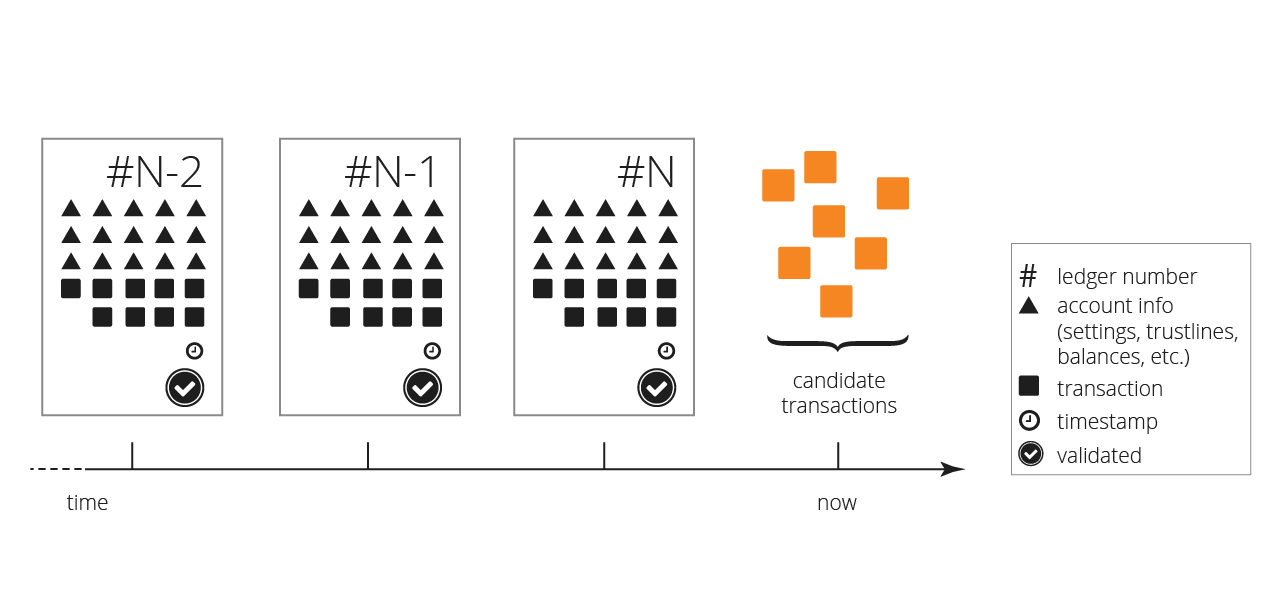
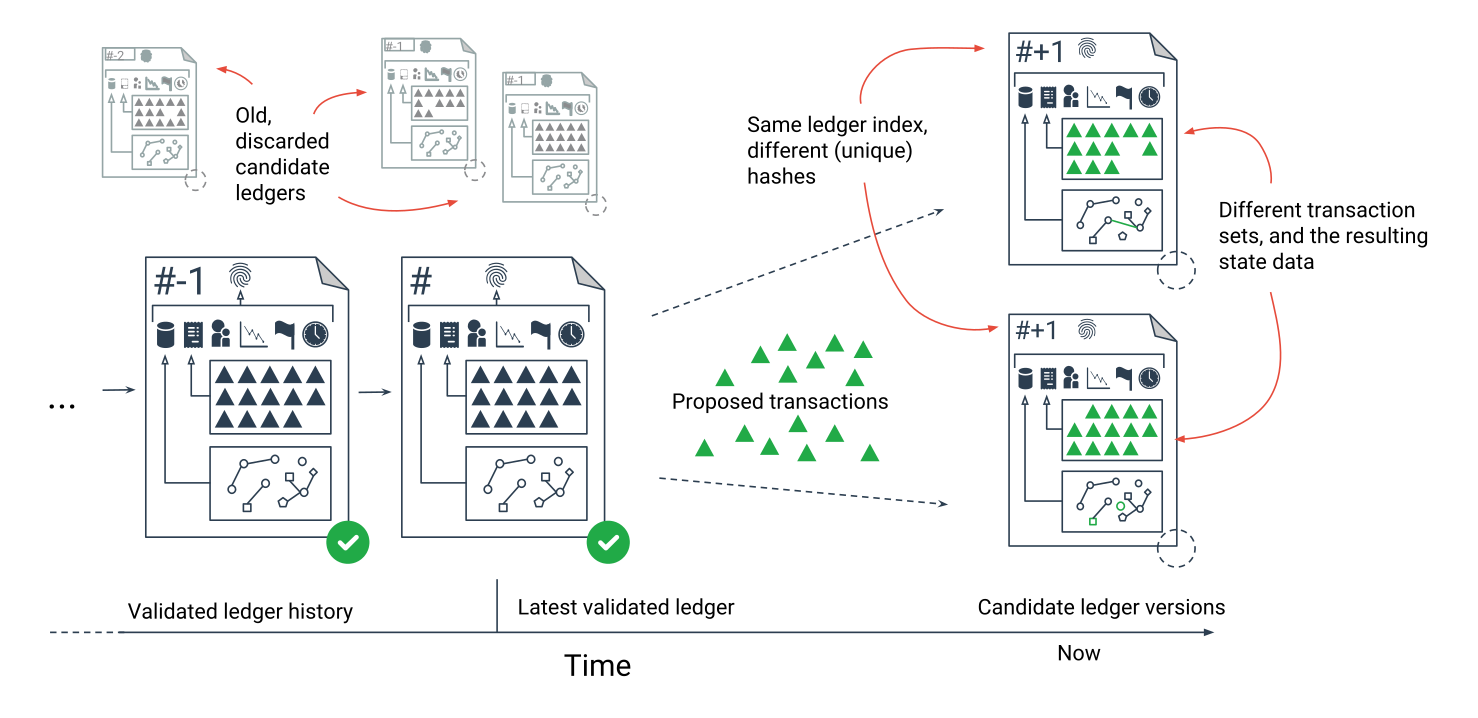
Start revising consensus article diagrams

diff --git a/content/concepts/consensus-network/consensus.md b/content/concepts/consensus-network/consensus.md
@@ -6,35 +6,34 @@ This article provides a high level overview of the XRP Ledger, the information i
 
 When building applications on the XRP Ledger, it is important to understand this process, so as not to be surprised by the behavior of XRP Ledger APIs and their effects.
 
-**Caution:** Transactions are not applied to the XRP Ledger instantaneously; it takes some time for the effects of transactions to be applied. During this process, [`rippled` APIs](rippled-api.html) may return provisional results that should not be mistaken for the final, immutable results of a transaction. Immutable results can only be determined by looking at validated ledgers.
 
 ## Introduction
 
 The peer-to-peer XRP Ledger network provides a worldwide, shared ledger, which gives applications authoritative information about the state of its contents. This state information includes:
 
 - settings for each [account](accounts.html)
-- balances between accounts (trust lines)
+- balances of XRP and [issued currencies](issued-currencies.html)
 - offers in the distributed exchange
 - network settings, such as [transaction costs](transaction-cost.html) and [reserve](reserves.html) amounts
 - a time stamp
 
 For a full, technical description of which data is included in a ledger version, see the [Ledger Format Reference](ledger-data-formats.html).
 
-[![Figure 1: XRP Ledger Elements](img/ledger-components.png)](img/ledger-components.png)
+[![Figure 1: XRP Ledger Elements](img/anatomy-of-a-ledger-complete.png)](img/anatomy-of-a-ledger-complete.png)
 
 _Figure 1: XRP Ledger Elements_
 
-The XRP Ledger has a new ledger version every several seconds. The ledger versions that preceded it form the ledger history. Even the most recent validated ledger is part of history, as it represents the state of the network as of a short time ago. In the present, the network is evaluating transactions which may be applied and finalized in the next ledger version.
+The XRP Ledger has a new ledger version every several seconds. When the network agrees on the contents of a ledger version, that ledger version is _validated_, and its contents can never change. The validated ledger versions that preceded it form the ledger history. Even the most recent validated ledger is part of history, as it represents the state of the network as of a short time ago. In the present, the network is evaluating transactions which may be applied and finalized in the next ledger version. While this evaluation is happening, the network has candidate ledger versions that are not yet validated.
 
 [![Figure 2: XRP Ledger Sequence and History](img/ledger-history.png)](img/ledger-history.png)
 
 _Figure 2: XRP Ledger Sequence and History_
 
-A ledger instance is identified by its _sequence number_ <a href="#footnote_1" id="footnote_from_1"><sup>1</sup></a>, also called a _ledger index_. Ledgers are numbered incrementally. If the last validated ledger is N, the previous was N-1 and the next is N+1. The N+1 ledger is produced by applying a set of transactions to ledger N.
+A ledger instance is identified by its _ledger index_, <a href="#footnote_1" id="footnote_from_1"><sup>1</sup></a>, also called a _sequence number_. Ledgers are numbered incrementally. If the current ledger is N, the previous was N-1 and the next is N+1. The N+1 ledger is produced by applying a set of transactions to ledger N. For any ledger index, there may be several candidate versions with slightly different contents, but only one version can become validated; the others are discarded.
 
-User level changes to the ledger are the results of transactions. Examples of [transactions](transaction-formats.html) include payments, changes to account settings or trust lines, and offers to trade. Each transaction authorizes changes to the ledger and is cryptographically signed by an account owner. Transactions are the only way to authorize changes to an account.
+User level changes to the ledger are the results of transactions. Examples of [transactions](transaction-formats.html) include payments, changes to account settings or trust lines, and offers to trade. Each transaction authorizes changes to the ledger and is cryptographically signed by an account owner. Transactions are the only way to authorize changes to an account, or to change anything else in the ledger.
 
-A ledger instance also contains a set of transactions and metadata about those transactions. The transactions are those that have been applied to the prior ledger to create the new instance. The metadata records precisely the effects of the transaction on the ledger.
+Each ledger version also contains a set of transactions and metadata about those transactions. The transactions it includes are only the ones that have been applied to the previous ledger version to create the new ledger version. The metadata records the exact effects of the transaction on the ledger's state data.
 
 [![Figure 3: Transactions Applied to Ledger Version](img/ledger-changes.png)](img/ledger-changes.png)
 
@@ -54,31 +53,31 @@ Important: Some [`rippled` APIs](rippled-api.html) provide provisional results, 
 
 ## The XRP Ledger Protocol – Consensus and Validation
 
-The peer-to-peer XRP Ledger network consists of many distributed servers, called nodes, that accept and process transactions. Client applications sign and send transactions to nodes, which relay these candidate transactions throughout the network for processing. Examples of client applications include mobile and web wallets, gateways to financial institutions, and electronic trading platforms.
+The peer-to-peer XRP Ledger network consists of many independent XRP Ledger servers (typically running [`rippled`](the-rippled-server.html)) that accept and process transactions. Client applications sign and send transactions to XRP Ledger servers, which relay these candidate transactions throughout the network for processing. Examples of client applications include mobile and web wallets, gateways to financial institutions, and electronic trading platforms.
 
 [![Figure 4: Participants in the XRP Ledger Protocol](img/xrp-ledger-network.png)](img/xrp-ledger-network.png)
 
 _Figure 4: Participants in the XRP Ledger Protocol_
 
-The nodes that receive, relay and process transactions may be either tracking nodes or validating nodes. Tracking nodes’ primary functions include distributing transactions from clients and responding to queries about the ledger. Validating nodes perform the same functions as tracking nodes and additionally contribute to advancing the ledger sequence <a href="#footnote_4" id="footnote_from_4"><sup>4</sup></a>.
+The servers that receive, relay and process transactions may be either tracking servers or validators. Tracking servers’ primary functions include distributing transactions from clients and responding to queries about the ledger. Validating servers perform the same functions as tracking servers and additionally contribute to advancing the ledger sequence <a href="#footnote_4" id="footnote_from_4"><sup>4</sup></a>.
 
-While accepting transactions submitted by client applications, each tracking node uses the last validated ledger as a starting point. The accepted transactions are candidates. The nodes relay their candidate transactions to their peers, allowing the candidate transactions to propagate throughout the network. Ideally, each candidate transaction would be known to all nodes, allowing each to consider the same set of transactions to apply to the last validated ledger. As transactions take time to propagate however, the nodes do not work with the same set of candidate transactions at all times. To account for this, the XRP Ledger uses a process called consensus to ensure that the same transactions are processed and validated ledgers are consistent across the peer-to-peer XRP Ledger network.
+While accepting transactions submitted by client applications, each tracking server uses the last validated ledger as a starting point. The accepted transactions are candidates. The servers relay their candidate transactions to their peers, allowing the candidate transactions to propagate throughout the network. Ideally, each candidate transaction would be known to all servers, allowing each to consider the same set of transactions to apply to the last validated ledger. As transactions take time to propagate however, the servers do not work with the same set of candidate transactions at all times. To account for this, the XRP Ledger uses a process called consensus to ensure that the same transactions are processed and validated ledgers are consistent across the peer-to-peer XRP Ledger network.
 
 ### Consensus
 
-The nodes on the network share information about candidate transactions. Through the consensus process, validating nodes agree on a specific subset of the candidate transactions to be considered for the next ledger. Consensus is an iterative process in which nodes relay proposals, or sets of candidate transactions. Nodes communicate and update proposals until a supermajority <a href="#footnote_5" id="footnote_from_5"><sup>5</sup></a> of peers agree on the same set of candidate transactions.
+The servers on the network share information about candidate transactions. Through the consensus process, validators agree on a specific subset of the candidate transactions to be considered for the next ledger. Consensus is an iterative process in which servers relay proposals, or sets of candidate transactions. Servers communicate and update proposals until a supermajority <a href="#footnote_5" id="footnote_from_5"><sup>5</sup></a> of peers agree on the same set of candidate transactions.
 
-During consensus, each node evaluates proposals from a specific set of peers, called chosen validators <a href="#footnote_6" id="footnote_from_6"><sup>6</sup></a>. Chosen validators represent a subset of the network which, when taken collectively, is "trusted" not to collude in an attempt to defraud the node evaluating the proposals. This definition of "trust" does not require that each individual chosen validator is trusted. Rather, validators are chosen based on the expectation they will not collude in a coordinated effort to falsify data relayed to the network <a href="#footnote_7" id="footnote_from_7"><sup>7</sup></a>. <!-- STYLE_OVERRIDE: will -->
+During consensus, each server evaluates proposals from a specific set of peers, called chosen validators <a href="#footnote_6" id="footnote_from_6"><sup>6</sup></a>. Chosen validators represent a subset of the network which, when taken collectively, is "trusted" not to collude in an attempt to defraud the server evaluating the proposals. This definition of "trust" does not require that each individual chosen validator is trusted. Rather, validators are chosen based on the expectation they will not collude in a coordinated effort to falsify data relayed to the network <a href="#footnote_7" id="footnote_from_7"><sup>7</sup></a>. <!-- STYLE_OVERRIDE: will -->
 
 [![Figure 5: Validators Propose Transaction Sets](img/consensus-candidate-transaction-sets.png)](img/consensus-candidate-transaction-sets.png)
 
-_Figure 5: Validators Propose Transaction Sets — At the start of consensus, nodes work with different sets of transactions. Rounds of proposals determine which transactions to apply to the ledger, and which must wait for a later round of consensus._
+_Figure 5: Validators Propose Transaction Sets — At the start of consensus, servers work with different sets of transactions. Rounds of proposals determine which transactions to apply to the ledger, and which must wait for a later round of consensus._
 
 Candidate transactions which fail to be included in the agreed-upon proposal remain candidate transactions. They may be considered again in the next round of consensus.
 
-[![Figure 6: Through Consensus, Nodes Agree on Transaction Set](img/consensus-agreed-transaction-set.png)](img/consensus-agreed-transaction-set.png)
+[![Figure 6: Through Consensus, Servers Agree on Transaction Set](img/consensus-agreed-transaction-set.png)](img/consensus-agreed-transaction-set.png)
 
-_Figure 6: Through Consensus, Nodes Agree On Transaction Set — Nodes apply the agreed-upon set of transactions (shown in green) to the last validated ledger. Transactions not in the set (in red) may be agreed upon in the next round._
+_Figure 6: Through Consensus, Servers Agree On Transaction Set — Servers apply the agreed-upon set of transactions (shown in green) to the last validated ledger. Transactions not in the set (in red) may be agreed upon in the next round._
 
 Typically, a transaction which does not pass one round of consensus succeeds in the following round. However, in some circumstances, a transaction could fail to pass consensus indefinitely. One such circumstance is if the network increases the base fee to a value higher than the transaction provides. The transaction could potentially succeed if the fees are lowered at some point in the future.
 
@@ -86,29 +85,29 @@ The [`LastLedgerSequence` transaction field](transaction-common-fields.html) is 
 
 ### Validation
 
-When a round of consensus completes, each node computes a new ledger by applying the candidate transactions in the consensus transaction set to the last validated ledger.
+When a round of consensus completes, each server computes a new ledger by applying the candidate transactions in the consensus transaction set to the last validated ledger.
 
 [![Figure 7: A Network Node Calculates a Ledger Validation](img/consensus-calculate-validation.png)](img/consensus-calculate-validation.png)
 
-_Figure 7: A Network Node Calculates a Ledger Validation — Each tracking node applies agreed-upon transactions to the last validated ledger. Validating nodes send their results to the entire network._
+_Figure 7: A Network Node Calculates a Ledger Validation — Each tracking server applies agreed-upon transactions to the last validated ledger. Validating servers send their results to the entire network._
 
-The validating nodes calculate a new version of the ledger and relay their results to the network, each sending a signed hash of the ledger it calculated based on the candidate transactions proposed during consensus. These signed hashes, called validations, allow each node to compare the ledger it computed with those of its peers.
+The validators calculate a new version of the ledger and relay their results to the network, each sending a signed hash of the ledger it calculated based on the candidate transactions proposed during consensus. These signed hashes, called validations, allow each server to compare the ledger it computed with those of its peers.
 
 [![Figure 8: Ledger is Validated When Supermajority of Peers Calculate the Same Result Result](img/consensus-declare-validation.png)](img/consensus-declare-validation.png)
 
-_Figure 8: Ledger is Validated When Supermajority of Peers Calculate the Same Result — Nodes compare their calculated ledger with the hashes received from chosen validators. If not in agreement, the node must re-calculate or retrieve the correct ledger._
+_Figure 8: Ledger is Validated When Supermajority of Peers Calculate the Same Result — Servers compare their calculated ledger with the hashes received from chosen validators. If not in agreement, the server must re-calculate or retrieve the correct ledger._
 
-Nodes of the network recognize a ledger instance as validated when a supermajority of the peers have signed and broadcast the same validation hash <a href="#footnote_8" id="footnote_from_8"><sup>8</sup></a>. Going forward, transactions are applied to this updated and now validated ledger with sequence number N+1.
+Servers in the network recognize a ledger instance as validated when a supermajority of the peers have signed and broadcast the same validation hash <a href="#footnote_8" id="footnote_from_8"><sup>8</sup></a>. Going forward, transactions are applied to this updated and now validated ledger with sequence number N+1.
 
-In cases where a node is in the minority, having computed a ledger that differs from its peers, the node disregards the ledger it computed <a href="#footnote_9" id="footnote_from_9"><sup>9</sup></a>. It recomputes the correct ledger, or retrieves the correct ledger as needed.
+In cases where a server is in the minority, having computed a ledger that differs from its peers, the server disregards the ledger it computed <a href="#footnote_9" id="footnote_from_9"><sup>9</sup></a>. It recomputes the correct ledger, or retrieves the correct ledger as needed.
 
-If the network fails to achieve supermajority agreement on validations, this implies that transaction volume was too high or network latency too great for the consensus process to produce consistent proposals. In this case, the nodes repeat the consensus process. As time passes since consensus began, it becomes increasingly likely that a majority of the nodes have received the same set of candidate transactions, as each consensus round reduces disagreement. The XRP Ledger dynamically adjusts [transaction costs](transaction-cost.html) and the time to wait for consensus in response to these conditions.
+If the network fails to achieve supermajority agreement on validations, this implies that transaction volume was too high or network latency too great for the consensus process to produce consistent proposals. In this case, the servers repeat the consensus process. As time passes since consensus began, it becomes increasingly likely that a majority of the servers have received the same set of candidate transactions, as each consensus round reduces disagreement. The XRP Ledger dynamically adjusts [transaction costs](transaction-cost.html) and the time to wait for consensus in response to these conditions.
 
 [![Figure 9: Network Recognizes a New Validated Ledger Version](img/consensus-validated-ledger.png)](img/consensus-validated-ledger.png)
 
-_Figure 9: Network Recognises the New Validated Ledger Version — At the end of a round of the consensus process, nodes have an updated validated ledger._
+_Figure 9: Network Recognises the New Validated Ledger Version — At the end of a round of the consensus process, servers have an updated validated ledger._
 
-Once they reach supermajority agreement on validations, the nodes work with the new validated ledger, sequence number N+1. The consensus and validation process repeats <a href="#footnote_10" id="footnote_from_10"><sup>10</sup></a>, considering candidate transactions that were not included in the last round along with new transactions submitted in the meantime.
+Once they reach supermajority agreement on validations, the servers work with the new validated ledger, sequence number N+1. The consensus and validation process repeats <a href="#footnote_10" id="footnote_from_10"><sup>10</sup></a>, considering candidate transactions that were not included in the last round along with new transactions submitted in the meantime.
 
 ## Key Takeaways
 
@@ -136,7 +135,7 @@ Best practices for applications submitting transactions include:
     - Transactions with result code **tesSUCCESS** and `"validated": true` have immutably succeeded.
     - Transactions with other result codes and `"validated": true` have immutably failed.
     - Transactions that fail to appear in any validated ledger up to and including the validated ledger identified by the transaction’s `LastLedgerSequence` have immutably failed.
-        - Take care to use a node with a continuous ledger history to detect this case <a href="#footnote_11" id="footnote_from_11"><sup>11</sup></a>.
+        - Take care to use a server with a continuous ledger history to detect this case <a href="#footnote_11" id="footnote_from_11"><sup>11</sup></a>.
     - It may be necessary to check the status of a transaction repeatedly until the ledger identified by `LastLedgerSequence` is validated.
 
 ## Further Resources
@@ -156,18 +155,18 @@ Best practices for applications submitting transactions include:
 
 <a href="#footnote_from_3" id="footnote_3"><sup>3</sup></a> – For example, consider a scenario where Alice has $100, and sends all of it to Bob. If an application first submits that payment transaction, then immediately after checks Alice’s balance, the API returns $0. This value is based on the provisional result of a candidate transaction. There are circumstances in which the payment fails and Alice’s balance remains $100 (or, due to other transactions, become some other amount). The only way to know with certainty that Alice’s payment to Bob succeeded is to check the status of the transaction until it is both in a validated ledger and has result code **tesSUCCESS**. If the transaction is in a validated ledger with any other result code, the payment has failed.
 
-<a href="#footnote_from_4" id="footnote_4"><sup>4</sup></a> – Strictly speaking, validating nodes are a subset of tracking nodes. They provide the same features and additionally create "validations." Tracking nodes may be further categorized by whether they keep full vs. partial ledger history.
+<a href="#footnote_from_4" id="footnote_4"><sup>4</sup></a> – Strictly speaking, validators are a subset of tracking servers. They provide the same features and additionally send "validation" messages. Tracking servers may be further categorized by whether they keep full vs. partial ledger history.
 
 <a href="#footnote_from_5" id="footnote_5"><sup>5</sup></a> – Transactions fail to pass a round of consensus when the percentage of peers recognizing the transaction falls below a threshold. Each round is an iterative process. At the start of the first round, at least 50% of peers must agree. The final threshold for a consensus round is 80% agreement. These specific values are subject to change
 
 <a href="#footnote_from_6" id="footnote_6"><sup>6</sup></a> – Sometimes referred to as a Unique Node List (UNL).
 
-<a href="#footnote_from_7" id="footnote_7"><sup>7</sup></a> – If proposals from all validators were evaluated, instead of exclusively from the validators chosen not to collude, a malicious attacker could spin up enough validating nodes to form a colluding supermajority to introduce invalid transactions or omit valid transactions from proposals. The chosen validator list defends against Sybil attacks.
+<a href="#footnote_from_7" id="footnote_7"><sup>7</sup></a> – If proposals from all validators were evaluated, instead of exclusively from the validators chosen not to collude, a malicious attacker could run more validators to gain disproportionate power over the validation process, so they could introduce invalid transactions or omit valid transactions from proposals. The chosen validator list [defends against Sybil attacks](consensus-protections.html#sybil-attacks).
 
 <a href="#footnote_from_8" id="footnote_8"><sup>8</sup></a> – The supermajority threshold, as of November 2014, requires that at least 80% of peers must agree for a ledger to be validated. This happens to be the same percentage required by a round of consensus. Both thresholds are subject to change and need not be equal.
 
-<a href="#footnote_from_9" id="footnote_9"><sup>9</sup></a> – In practice, the node detects that it is in the minority before receiving validations from all peers. It knows when it receives non-matching validations from over 20% of peers that its validation cannot meet the 80% threshold. At that point, it can begin to recalculate a ledger.
+<a href="#footnote_from_9" id="footnote_9"><sup>9</sup></a> – In practice, the server detects that it is in the minority before receiving validations from all peers. It knows when it receives non-matching validations from over 20% of peers that its validation cannot meet the 80% threshold. At that point, it can begin to recalculate a ledger.
 
 <a href="#footnote_from_10" id="footnote_10"><sup>10</sup></a> – In practice, the XRP Ledger runs more efficiently by starting a new round of consensus concurrently, before validation has completed.
 
-<a href="#footnote_from_11" id="footnote_11"><sup>11</sup></a> – A `rippled` server can respond to API requests even without a complete ledger history. Interruptions in service or network connectivity can lead to missing ledgers, or gaps, in the node’s ledger history. Over time, if configured to, `rippled` fills in gaps in its history. When testing for missing transactions, it is important to verify against a node with continuous complete ledgers from the time the transaction was submitted until its LastLedgerSequence. Use the RPC server_state to determine which complete_ledgers are available to a particular node.
+<a href="#footnote_from_11" id="footnote_11"><sup>11</sup></a> – A `rippled` server can respond to API requests even without a complete ledger history. Interruptions in service or network connectivity can lead to missing ledgers, or gaps, in the server’s ledger history. Over time, if configured to, `rippled` fills in gaps in its history. When testing for missing transactions, it is important to verify against a server with continuous complete ledgers from the time the transaction was submitted until its LastLedgerSequence. Use the RPC server_state to determine which complete_ledgers are available to a particular server.

diff --git a/content/concepts/the-rippled-server/history-sharding.md b/content/concepts/the-rippled-server/history-sharding.md
@@ -10,6 +10,8 @@ Using the history sharding feature, individual `rippled` servers can contribute 
 
 [![XRP Ledger Network: Ledger Store and Shard Store Diagram](img/xrp-ledger-network-ledger-store-and-shard-store.png)](img/xrp-ledger-network-ledger-store-and-shard-store.png)
 
+<!-- Diagram source: https://docs.google.com/presentation/d/1mg2jZQwgfLCIhOU8Mr5aOiYpIgbIgk3ymBoDb2hh7_s/edit#slide=id.g417450e8da_0_316 -->
+
 ## Acquiring and Sharing History Shards
 
 `rippled` servers acquire and store history shards only if configured to do so. For those servers, acquiring shards begins after synchronizing with the network and backfilling ledger history to the configured number of recent ledgers. During this time of lower network activity, a `rippled` server set to maintain a `shard_db` randomly chooses a shard to add to its shard store. To increase the probability for an even distribution of the network ledger history, shards are randomly selected for acquisition, and the current shard is given no special consideration.
